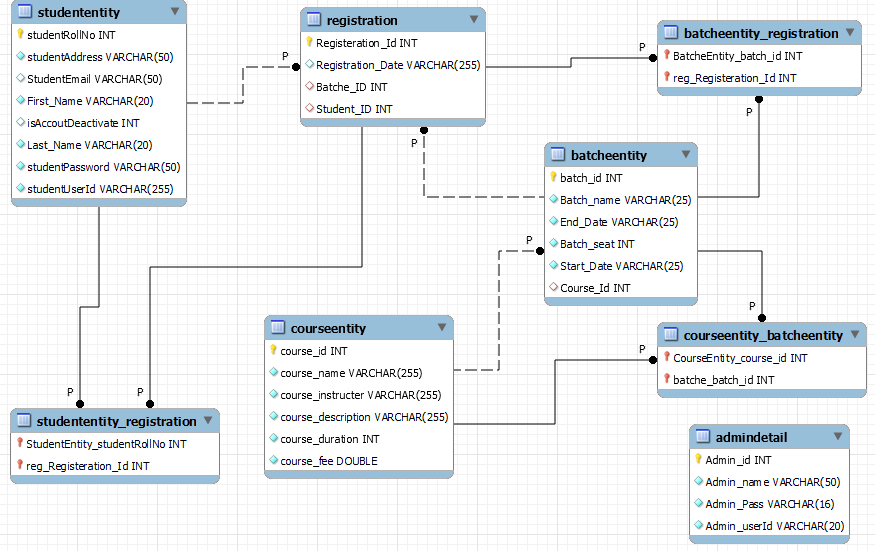
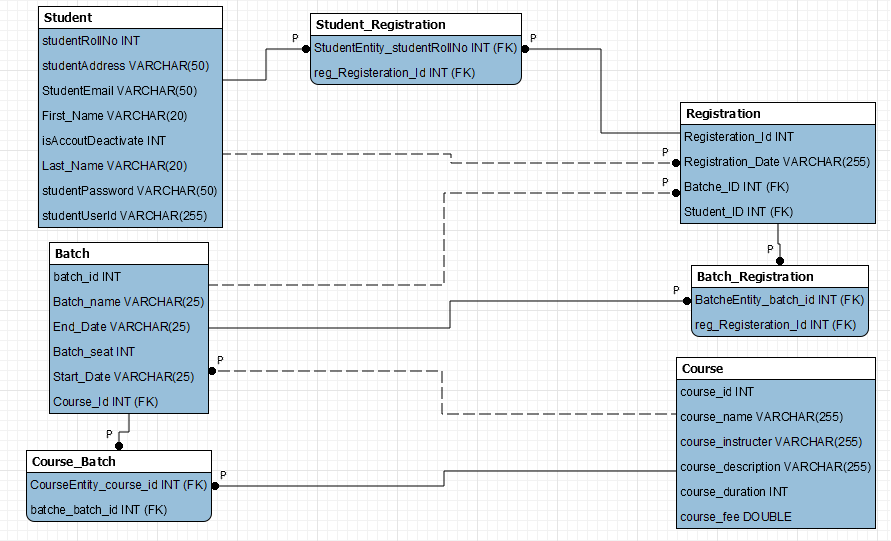
fixed error

diff --git a/src/main/java/com/Project/Student/Dao_Dao/AdminEntityDaoImpl.java b/src/main/java/com/Project/Student/Dao_Dao/AdminEntityDaoImpl.java
@@ -1,6 +1,5 @@
 package com.Project.Student.Dao_Dao;
 
-import com.Project.Student.Dao_beam.AdminEntity;
 import com.Project.Student.Dao_beam.BatcheEntity;
 import com.Project.Student.Dao_beam.CourseEntity;
 import com.Project.Student.Dao_beam.Registration;
@@ -9,7 +8,6 @@ import com.Project.Student.Exception.NoRecordFoundException;
 import com.Project.Student.Exception.SomeThingWrongException;
 
 import java.util.List;
-
 import com.Project.Student.Dao_Eutil.EMUtils;
 import jakarta.persistence.EntityManager;
 import jakarta.persistence.PersistenceException;
@@ -18,52 +16,20 @@ import jakarta.persistence.Query;
 public class AdminEntityDaoImpl implements AdminEntityDao {
 
 	@Override
-	public boolean addAdminToDb(AdminEntity adminDetailReg) throws SomeThingWrongException {
-
-		boolean Regiadmin = false;
-		EntityManager em = EMUtils.getConnection();
-		em.getTransaction().begin();
-
-		try {
-			em.persist(adminDetailReg);
-			Regiadmin = true;
-
-		} catch (PersistenceException px) {
-			throw new SomeThingWrongException(px.getMessage());
-		} finally {
-
-			em.getTransaction().commit();
-			em.close();
-		}
-		return Regiadmin;
-	}
-
-	@Override
 	public String adminAuthToDb(String userId, String pass) throws SomeThingWrongException, NoRecordFoundException {
 
 		String authadmin = null;
-		EntityManager em = EMUtils.getConnection();
 		try {
-
-			String adminAuth = "SELECT a.adminUserId FROM AdminEntity a WHERE a.adminUserId = :userId AND a.adminPassword = :password";
-			Query qq = em.createQuery(adminAuth, AdminEntity.class);
-			qq.setParameter("userId", userId);
-			qq.setParameter("password", pass);
-
-			List<String> list = (List<String>) qq.getResultList();
-			if (list.size() == 0) {
-
+			if (userId.equals("admin")&&pass.equals(pass)) {
+				authadmin="Admin Autheticate Succesfully";
+				
+			}else {
 				throw new SomeThingWrongException("userId or Password Are Incorrect");
 			}
-			authadmin = list.get(0);
-
 		} catch (PersistenceException px) {
 
 			throw new SomeThingWrongException("Unable to process request, try again later");
-		} finally {
-
-			em.close();
-		}
+		} 
 		return authadmin;
 
 	}
@@ -363,7 +329,8 @@ public class AdminEntityDaoImpl implements AdminEntityDao {
 	}
 
 	@Override
-	public void registerStudentBatch(int studentid, int batchid) throws NoRecordFoundException, SomeThingWrongException {
+	public void registerStudentBatch(int studentid, int batchid)
+			throws NoRecordFoundException, SomeThingWrongException {
 		EntityManager em = null;
 
 		try {
@@ -371,7 +338,7 @@ public class AdminEntityDaoImpl implements AdminEntityDao {
 			em.getTransaction().begin();
 			BatcheEntity bt = em.find(BatcheEntity.class, batchid);
 			StudentEntity st = em.find(StudentEntity.class, studentid);
-			Registration reg= new Registration();
+			Registration reg = new Registration();
 			if (bt == null) {
 				throw new NoRecordFoundException("Batch Not Found");
 			}
@@ -382,12 +349,12 @@ public class AdminEntityDaoImpl implements AdminEntityDao {
 			reg.setStudentEnitty(st);
 			st.getReg().add(reg);
 			bt.getReg().add(reg);
-			
+
 			em.persist(reg);
 			em.persist(st);
 			em.persist(bt);
 			em.getTransaction().commit();
-			
+
 		} catch (PersistenceException px) {
 			throw new SomeThingWrongException(px.getMessage());
 		} finally {

diff --git a/src/main/java/com/Project/Student/Main_User/Administrator.java b/src/main/java/com/Project/Student/Main_User/Administrator.java
@@ -6,7 +6,6 @@ import java.util.Scanner;
 
 import com.Project.Student.Dao_Dao.AdminEntityDao;
 import com.Project.Student.Dao_Dao.AdminEntityDaoImpl;
-import com.Project.Student.Dao_beam.AdminEntity;
 import com.Project.Student.Dao_beam.BatcheEntity;
 import com.Project.Student.Dao_beam.CourseEntity;
 import com.Project.Student.Dao_beam.StudentEntity;
@@ -17,42 +16,6 @@ import com.Project.StudentRegistration.Main;
 
 public class Administrator {
 
-	public void adminRegister(Scanner sc) {
-
-		String message = null;
-		System.out.println("Welcome TO Admin Register ,Please Fill Requred Details");
-		System.out.println("Enter Your Name");
-		String adminName = sc.next();
-		System.out.println("Enter Your Password ");
-		String pass = sc.next();
-
-		String genetuserid = AutoGenerateAdminUserID.userId(adminName);
-
-		AdminEntity admEt = new AdminEntity();
-		admEt.setAdminName(adminName);
-		admEt.setAdminUserId(genetuserid);
-		admEt.setAdminPassword(pass);
-
-		AdminEntityDao admEtdao = new AdminEntityDaoImpl();
-
-		try {
-			boolean status = admEtdao.addAdminToDb(admEt);
-			if (status) {
-				System.out.println("---------------------------------------------");
-				System.out.println("              Administer                     ");
-				System.out.println("Welcome : " + admEt.getAdminName());
-				System.out.println("User Id: " + admEt.getAdminUserId());
-				System.out.println("Your PassWord: " + admEt.getAdminPassword());
-			} else {
-				System.out.println("Error Occure");
-			}
-
-		} catch (SomeThingWrongException e) {
-
-			e.printStackTrace();
-		}
-
-	}
 
 	public boolean adminLoginAuthrticate(Scanner sc) {
 

diff --git a/src/main/java/com/Project/StudentRegistration/Main.java b/src/main/java/com/Project/StudentRegistration/Main.java
@@ -226,10 +226,8 @@ public class Main {
 		System.out.println("------------------------------------------------------");
 		System.out.println("              Administer Dashbroad                    ");
 		System.out.println();
-		System.out.println("Select -> 1 for Register Admin");
-		System.out.println("Select -> 2 for Login Admin");
-		System.out.println("Select -> 3 for Back DashBoard");
-
+		System.out.println("Select -> 1 for Login Admin");
+		System.out.println("Select -> 2 for Back DashBoard");
 		System.out.println();
 		System.out.println("Select-> 0 for Exit  ");
 		adminChoice = sc.nextInt();
@@ -239,23 +237,15 @@ public class Main {
 			Administrator admMenu = new Administrator();
 			switch (adminChoice) {
 			case 1:
-				admMenu.adminRegister(sc);
-				System.out.println("------------------------------------------------------");
-				System.out.println("You can Login Now");
-				admindashboard(sc);
-				break;
-
-			case 2:
 				boolean autheticateResult = admMenu.adminLoginAuthrticate(sc);
 				if (autheticateResult) {
-					System.out.println("user Validate");
 					administrationActivity(sc);
 				} else {
 					System.out.println("UserId or Password is Invalid");
 					admindashboard(sc);
 				}
 				break;
-			case 3:
+			case 2:
 				dashboardMenu();
 				break;
 

diff --git a/src/main/java/com/Project/Student/Dao_Dao/AdminEntityDao.java b/src/main/java/com/Project/Student/Dao_Dao/AdminEntityDao.java
@@ -1,8 +1,6 @@
 package com.Project.Student.Dao_Dao;
 
 import java.util.List;
-
-import com.Project.Student.Dao_beam.AdminEntity;
 import com.Project.Student.Dao_beam.BatcheEntity;
 import com.Project.Student.Dao_beam.CourseEntity;
 import com.Project.Student.Dao_beam.StudentEntity;
@@ -11,14 +9,8 @@ import com.Project.Student.Exception.SomeThingWrongException;
 
 public interface AdminEntityDao {
 
-	/**
-	 * 
-	 * @param admin
-	 * @return
-	 * @throws SomeThingWrongException
-	 */
-	boolean addAdminToDb(AdminEntity admin) throws SomeThingWrongException;
-
+	
+	
 	String adminAuthToDb(String userId, String pass) throws SomeThingWrongException, NoRecordFoundException;
 
 	

diff --git a/src/main/java/com/Project/Student/Dao_beam/StudentEntity.java b/src/main/java/com/Project/Student/Dao_beam/StudentEntity.java
@@ -133,7 +133,7 @@ public class StudentEntity {
 
 	@Override
 	public String toString() {
-		return "StudentEntity [roll=" + roll + ", fName=" + fName + ", lName=" + lName + ", email=" + email
+		return "Student_Details [roll=" + roll + ", fName=" + fName + ", lName=" + lName + ", email=" + email
 				+ ", address=" + address + ", studentUserId=" + studentUserId + ", password=" + password
 				+ ", isDeactivate=" + isDeactivate + ", reg=" + reg + "]";
 	}
